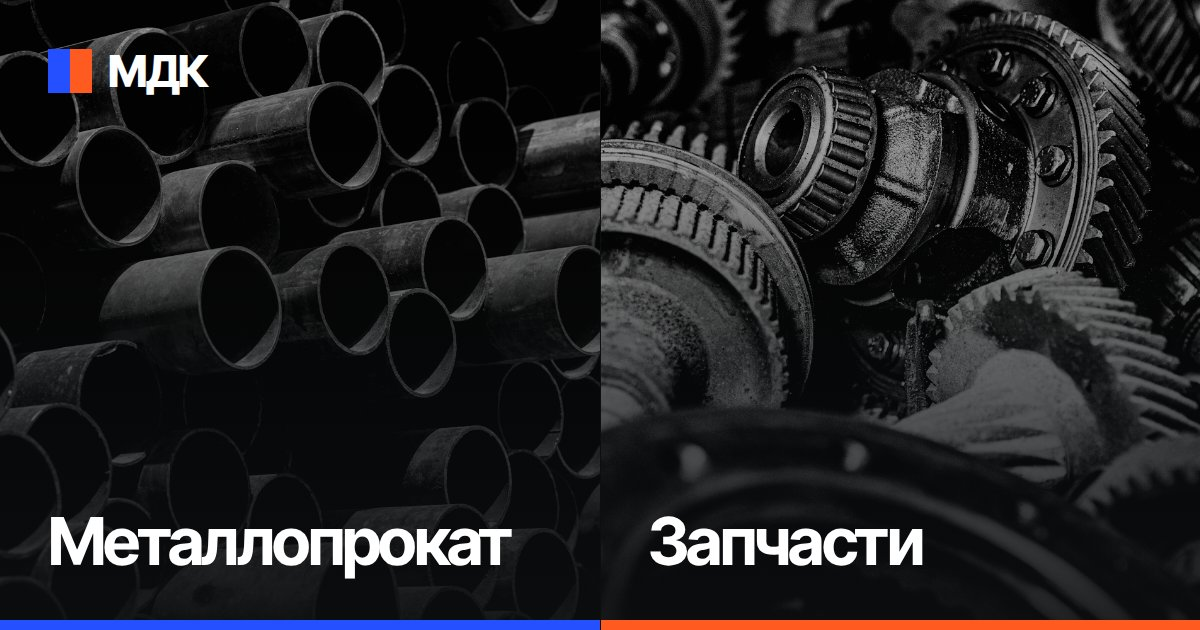
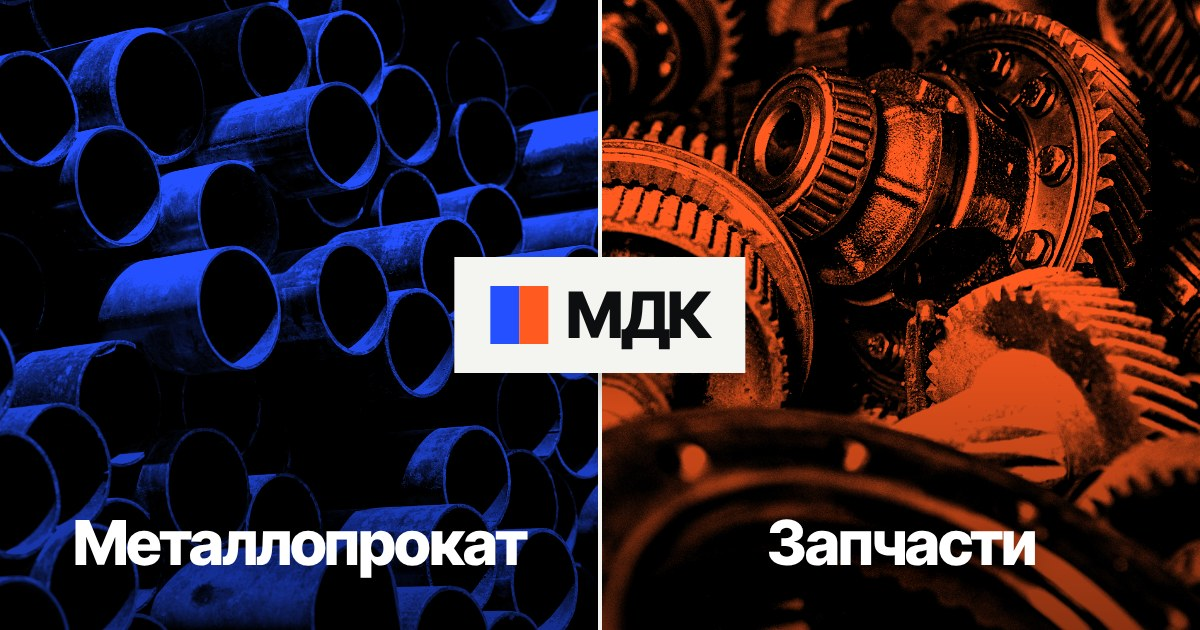
Картинка превью: яркая, синий/оранжевый, логотип по центру

diff --git a/zapchasti.html b/zapchasti.html
@@ -11,7 +11,7 @@
 <meta property="og:title" content="Запчасти для легковых, грузовых и спецтехники — МДК">
 <meta property="og:description" content="ООО «МДК»: оптовые поставки металлопроката для объектов и запчастей для автопарков">
 <meta property="og:url" content="https://mdkmdkmdk2027.github.io/zapchasti.html">
-<meta property="og:image" content="https://mdkmdkmdk2027.github.io/img/og.jpg?v=9603fab1">
+<meta property="og:image" content="https://mdkmdkmdk2027.github.io/img/og.jpg?v=c39ac950">
 <meta property="og:image:width" content="1200">
 <meta property="og:image:height" content="630">
 <meta name="twitter:card" content="summary_large_image">

diff --git a/index.html b/index.html
@@ -11,7 +11,7 @@
 <meta property="og:title" content="МДК — металлопрокат и запчасти для бизнеса">
 <meta property="og:description" content="ООО «МДК»: оптовые поставки металлопроката для объектов и запчастей для автопарков">
 <meta property="og:url" content="https://mdkmdkmdk2027.github.io/index.html">
-<meta property="og:image" content="https://mdkmdkmdk2027.github.io/img/og.jpg?v=9603fab1">
+<meta property="og:image" content="https://mdkmdkmdk2027.github.io/img/og.jpg?v=c39ac950">
 <meta property="og:image:width" content="1200">
 <meta property="og:image:height" content="630">
 <meta name="twitter:card" content="summary_large_image">

diff --git a/metall.html b/metall.html
@@ -11,7 +11,7 @@
 <meta property="og:title" content="Металлопрокат — МДК">
 <meta property="og:description" content="ООО «МДК»: оптовые поставки металлопроката для объектов и запчастей для автопарков">
 <meta property="og:url" content="https://mdkmdkmdk2027.github.io/metall.html">
-<meta property="og:image" content="https://mdkmdkmdk2027.github.io/img/og.jpg?v=9603fab1">
+<meta property="og:image" content="https://mdkmdkmdk2027.github.io/img/og.jpg?v=c39ac950">
 <meta property="og:image:width" content="1200">
 <meta property="og:image:height" content="630">
 <meta name="twitter:card" content="summary_large_image">
